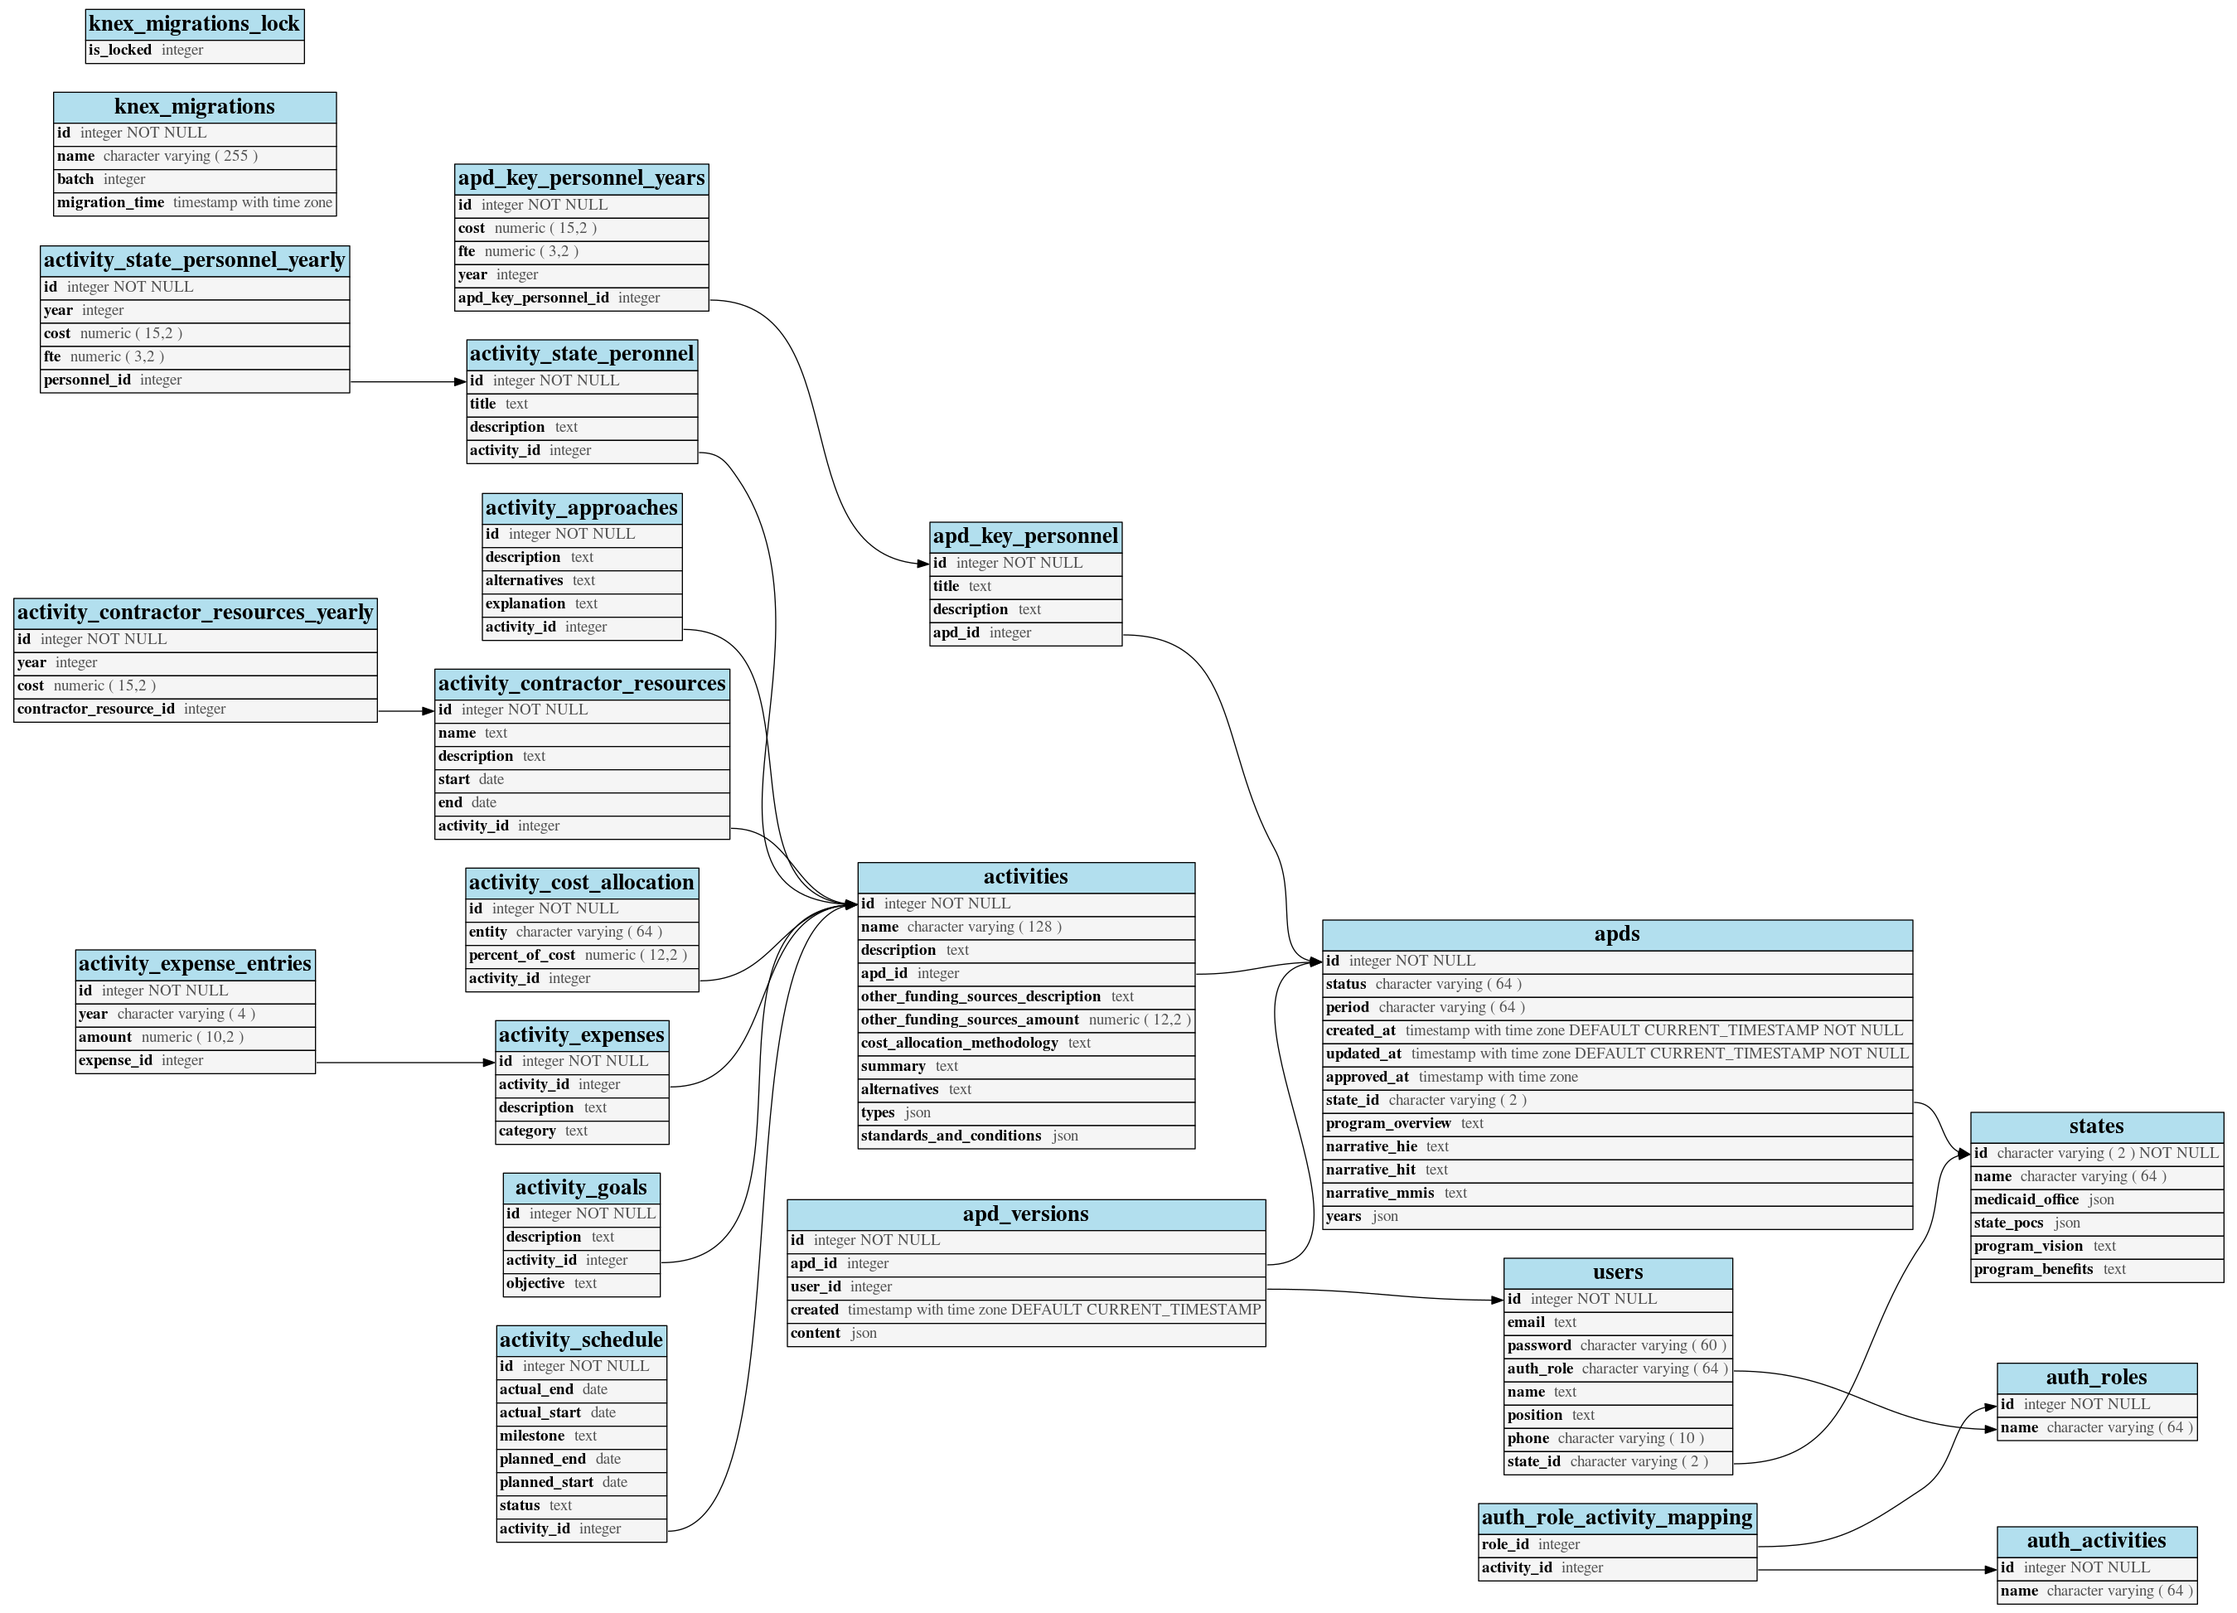
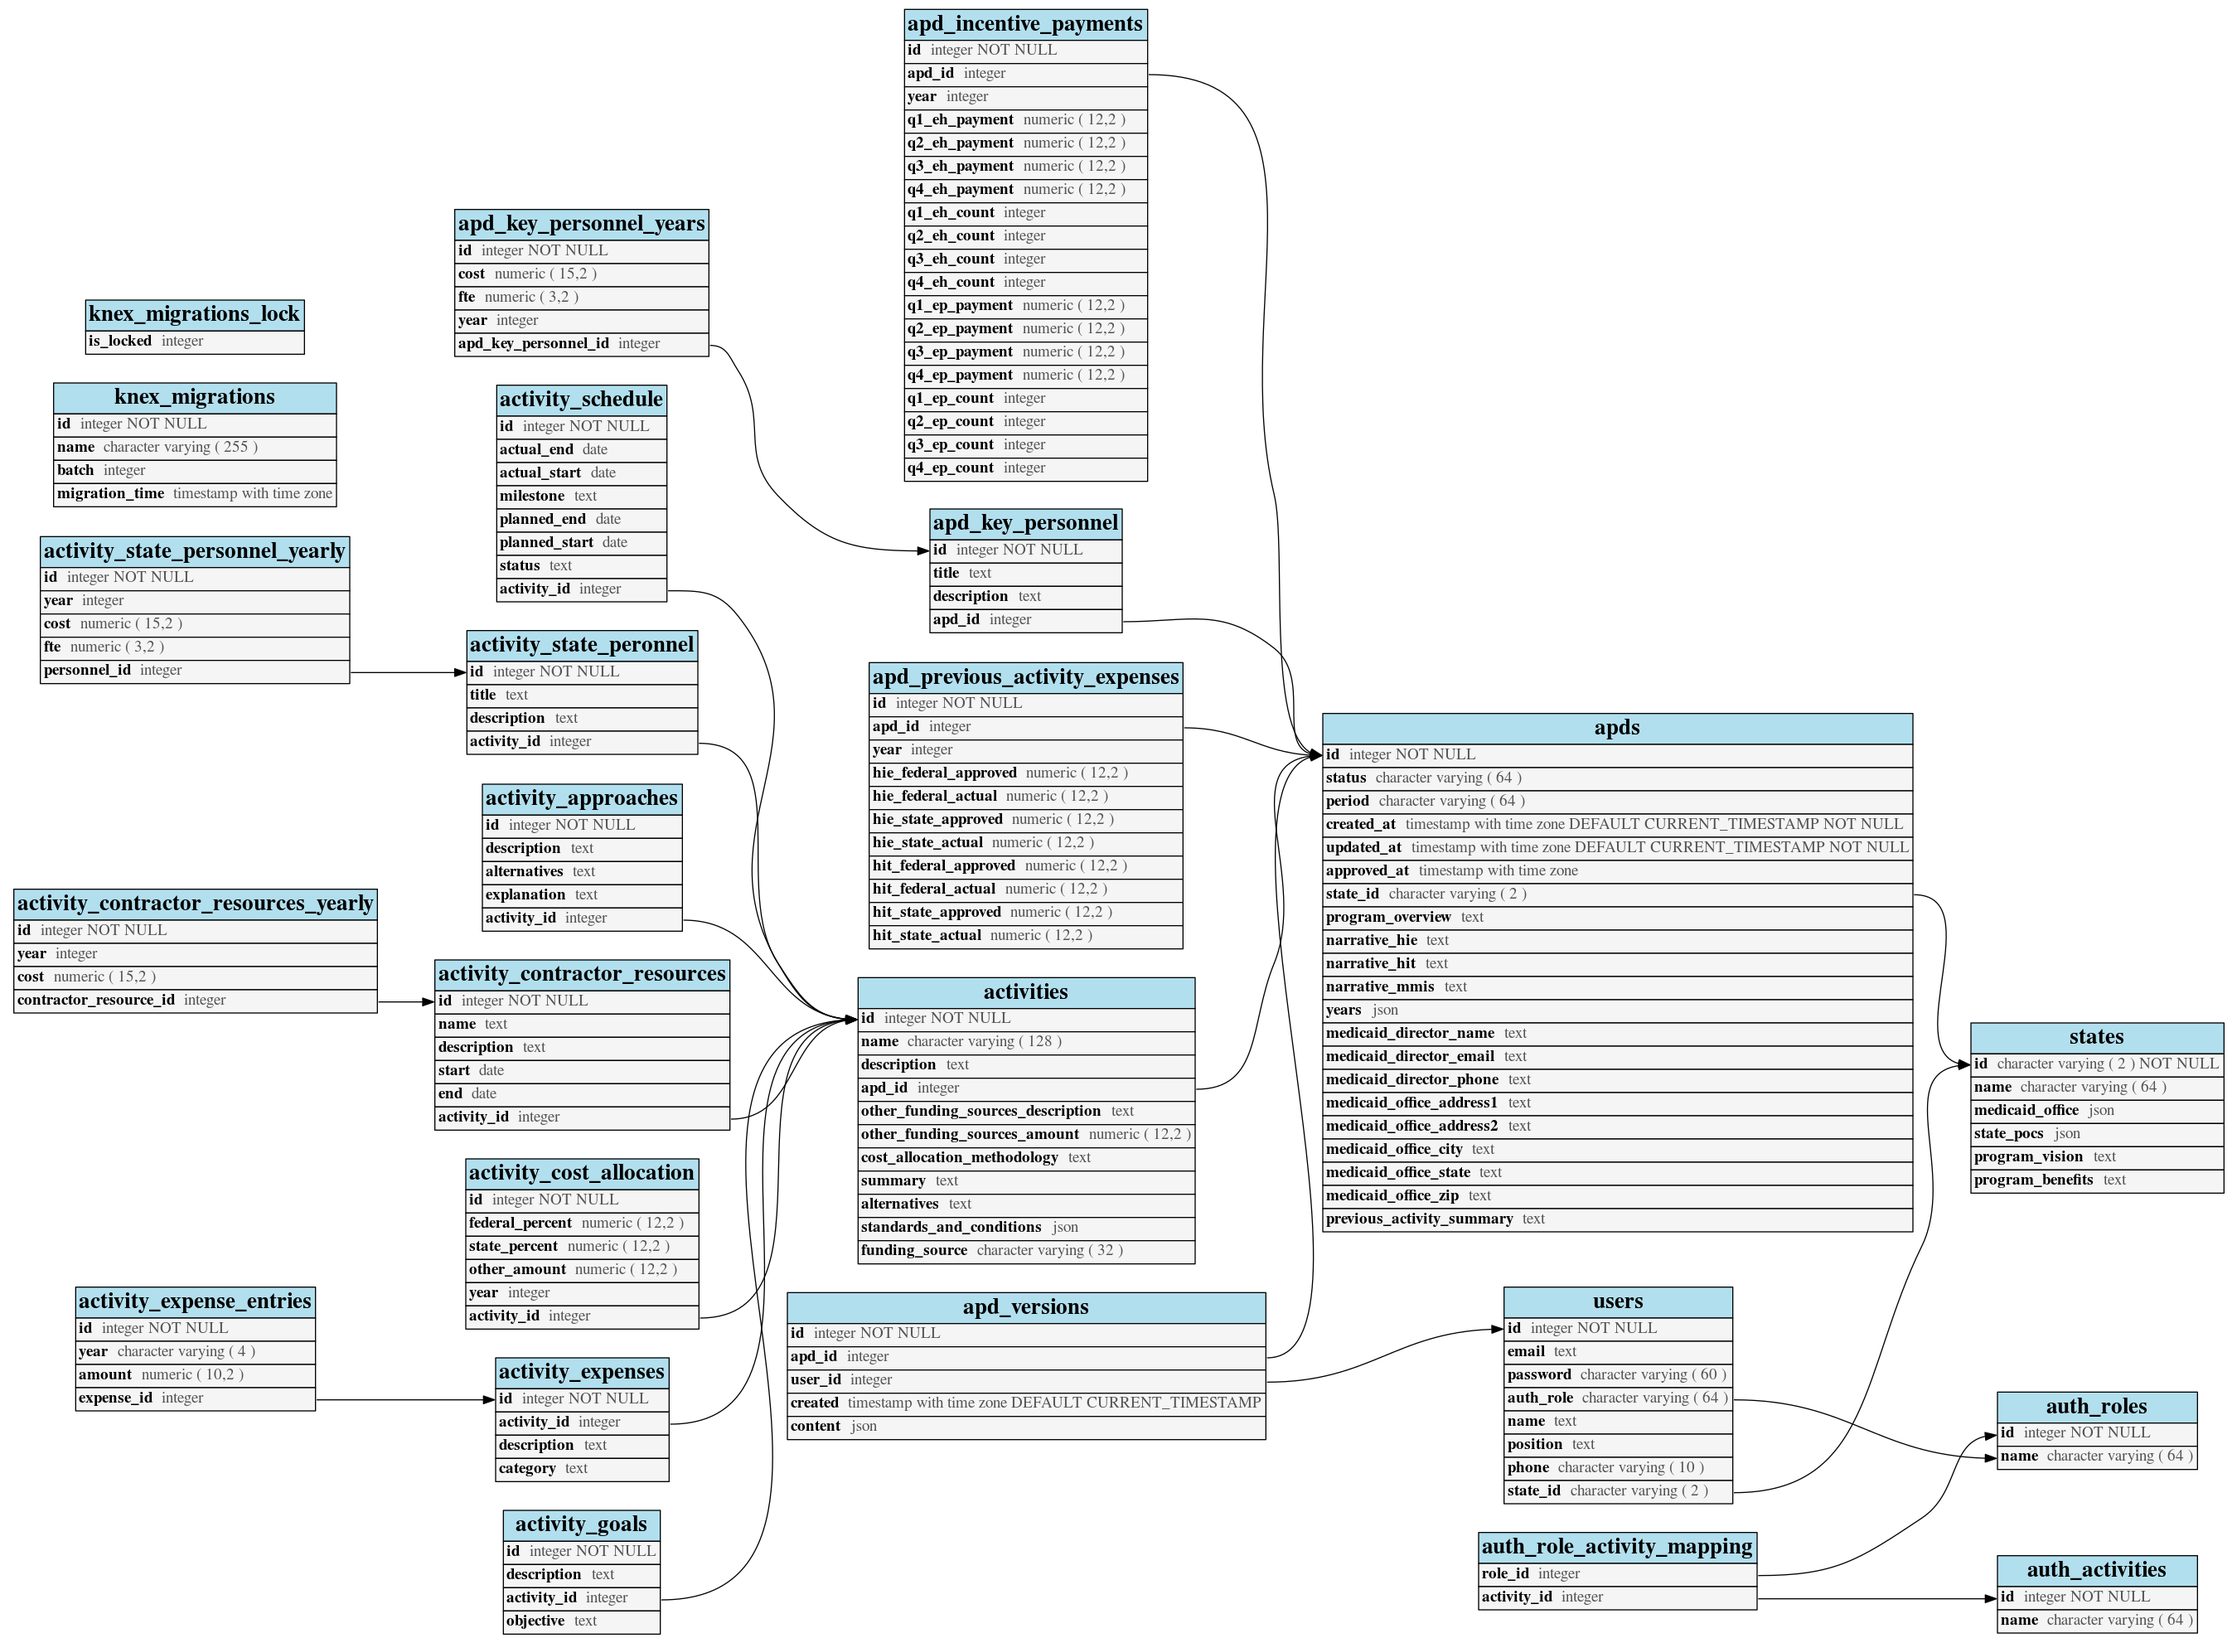
db migration; data model

diff --git a/api/db/apdIncentivePayment.test.js b/api/db/apdIncentivePayment.test.js
@@ -1,0 +1,143 @@
+const tap = require('tap');
+const sinon = require('sinon');
+
+const { apdIncentivePayment: incentive } = require('./apdIncentivePayment')();
+
+tap.test('apd incentive payments data model', async tests => {
+  tests.test('setup', async test => {
+    test.match(
+      incentive,
+      {
+        tableName: 'apd_incentive_payments',
+        apd: Function,
+        format: Function,
+        toJSON: Function,
+        static: {
+          updateableFields: ['q1', 'q2', 'q3', 'q4', 'year']
+        }
+      },
+      'get the expected model definitions'
+    );
+  });
+
+  tests.test('sets up apd relationship', async test => {
+    const self = {
+      belongsTo: sinon.stub().returns('baz')
+    };
+
+    const output = incentive.apd.bind(self)();
+
+    test.ok(
+      self.belongsTo.calledWith('apd'),
+      'sets up the relationship mapping to an apd'
+    );
+    test.equal(output, 'baz', 'returns the expected value');
+  });
+
+  tests.test('formats data into database columns', async test => {
+    const attributes = {
+      year: 1066,
+      apd_id: 'bob',
+      q1: {
+        ehPayment: 1,
+        ehCount: 2,
+        epPayment: 3,
+        epCount: 4
+      },
+      q2: {
+        ehPayment: 10,
+        ehCount: 20,
+        epPayment: 30,
+        epCount: 40
+      },
+      q3: {
+        ehPayment: 100,
+        ehCount: 200,
+        epPayment: 300,
+        epCount: 400
+      },
+      q4: {
+        ehPayment: 1000,
+        ehCount: 2000,
+        epPayment: 3000,
+        epCount: 4000
+      },
+      otherStuff: 'deleted'
+    };
+
+    const output = incentive.format(attributes);
+
+    test.same(output, {
+      year: 1066,
+      apd_id: 'bob',
+      q1_eh_payment: 1,
+      q1_eh_count: 2,
+      q1_ep_payment: 3,
+      q1_ep_count: 4,
+      q2_eh_payment: 10,
+      q2_eh_count: 20,
+      q2_ep_payment: 30,
+      q2_ep_count: 40,
+      q3_eh_payment: 100,
+      q3_eh_count: 200,
+      q3_ep_payment: 300,
+      q3_ep_count: 400,
+      q4_eh_payment: 1000,
+      q4_eh_count: 2000,
+      q4_ep_payment: 3000,
+      q4_ep_count: 4000
+    });
+  });
+
+  tests.test('overrides toJSON method', async test => {
+    const self = { get: sinon.stub(), related: sinon.stub() };
+    self.get.returns('--- unknown field ---');
+    self.get.withArgs('q1_eh_payment').returns('1');
+    self.get.withArgs('q1_eh_count').returns(2);
+    self.get.withArgs('q1_ep_payment').returns('3');
+    self.get.withArgs('q1_ep_count').returns(4);
+    self.get.withArgs('q2_eh_payment').returns('10');
+    self.get.withArgs('q2_eh_count').returns(20);
+    self.get.withArgs('q2_ep_payment').returns('30');
+    self.get.withArgs('q2_ep_count').returns(40);
+    self.get.withArgs('q3_eh_payment').returns('100');
+    self.get.withArgs('q3_eh_count').returns(200);
+    self.get.withArgs('q3_ep_payment').returns('300');
+    self.get.withArgs('q3_ep_count').returns(400);
+    self.get.withArgs('q4_eh_payment').returns('1000');
+    self.get.withArgs('q4_eh_count').returns(2000);
+    self.get.withArgs('q4_ep_payment').returns('3000');
+    self.get.withArgs('q4_ep_count').returns(4000);
+    self.get.withArgs('year').returns('year');
+
+    const output = incentive.toJSON.bind(self)();
+
+    test.same(output, {
+      q1: {
+        ehPayment: 1,
+        ehCount: 2,
+        epPayment: 3,
+        epCount: 4
+      },
+      q2: {
+        ehPayment: 10,
+        ehCount: 20,
+        epPayment: 30,
+        epCount: 40
+      },
+      q3: {
+        ehPayment: 100,
+        ehCount: 200,
+        epPayment: 300,
+        epCount: 400
+      },
+      q4: {
+        ehPayment: 1000,
+        ehCount: 2000,
+        epPayment: 3000,
+        epCount: 4000
+      },
+      year: 'year'
+    });
+  });
+});

diff --git a/api/db/apd.test.js b/api/db/apd.test.js
@@ -10,6 +10,14 @@ tap.test('apd data model', async apdModelTests => {
       {
         apd: {
           tableName: 'apds',
+
+          activities: Function,
+          incentivePayments: Function,
+          keyPersonnel: Function,
+          previousActivityExpenses: Function,
+          state: Function,
+          versions: Function,
+
           format: Function,
           toJSON: Function,
           static: {
@@ -25,7 +33,9 @@ tap.test('apd data model', async apdModelTests => {
             foreignKey: 'apd_id',
             owns: {
               activities: 'apdActivity',
-              keyPersonnel: 'apdKeyPersonnel'
+              incentivePayments: 'apdIncentivePayment',
+              keyPersonnel: 'apdKeyPersonnel',
+              previousActivityExpenses: 'apdPreviousActivityExpense'
             },
             withRelated: [
               { activities: Function },
@@ -38,6 +48,7 @@ tap.test('apd data model', async apdModelTests => {
               'activities.schedule',
               'activities.statePersonnel',
               'activities.statePersonnel.years',
+              'incentivePayments',
               'keyPersonnel',
               'keyPersonnel.years',
               'previousActivityExpenses'
@@ -46,36 +57,6 @@ tap.test('apd data model', async apdModelTests => {
         }
       },
       'get the expected model definitions'
-    );
-
-    setupTests.type(
-      apd.apd.activities,
-      'function',
-      'creates an activities relationship for the apd model'
-    );
-
-    setupTests.type(
-      apd.apd.keyPersonnel,
-      'function',
-      'creates a key personnel relationship for the apd model'
-    );
-
-    setupTests.type(
-      apd.apd.previousActivityExpenses,
-      'function',
-      'creates a previous activity expenses relationship for the apd model'
-    );
-
-    setupTests.type(
-      apd.apd.state,
-      'function',
-      'creates a state relationship for the apd model'
-    );
-
-    setupTests.type(
-      apd.apd.versions,
-      'function',
-      'creates a versions relationship for the apd model'
     );
   });
 
@@ -106,6 +87,23 @@ tap.test('apd data model', async apdModelTests => {
         'sets up the relationship mapping to activities'
       );
       activitiesTests.equal(output, 'florp', 'returns the expected value');
+    }
+  );
+
+  apdModelTests.test(
+    'apd model sets up incentive payments relationship',
+    async test => {
+      const self = {
+        hasMany: sinon.stub().returns('snop')
+      };
+
+      const output = apd.apd.incentivePayments.bind(self)();
+
+      test.ok(
+        self.hasMany.calledWith('apdIncentivePayment'),
+        'sets up the relationship mapping to incentive payments'
+      );
+      test.equal(output, 'snop', 'returns the expected value');
     }
   );
 
@@ -235,6 +233,9 @@ tap.test('apd data model', async apdModelTests => {
       .withArgs('activities')
       .returns({ toJSON: sinon.stub().returns('apd-activities') });
     self.related
+      .withArgs('incentivePayments')
+      .returns({ toJSON: sinon.stub().returns('incentive-payments') });
+    self.related
       .withArgs('keyPersonnel')
       .returns({ toJSON: sinon.stub().returns('key-personnel') });
     self.get.withArgs('id').returns('apd-id');
@@ -272,6 +273,7 @@ tap.test('apd data model', async apdModelTests => {
       {
         id: 'apd-id',
         activities: 'apd-activities',
+        incentivePayments: 'incentive-payments',
         keyPersonnel: 'key-personnel',
         narrativeHIE: 'apd-hie',
         narrativeHIT: 'apd-hit',

diff --git a/api/db/apdIncentivePayment.js b/api/db/apdIncentivePayment.js
@@ -1,0 +1,64 @@
+module.exports = () => ({
+  apdIncentivePayment: {
+    tableName: 'apd_incentive_payments',
+
+    apd() {
+      return this.belongsTo('apd');
+    },
+
+    format(attributes) {
+      const out = { year: attributes.year, apd_id: attributes.apd_id };
+
+      ['q1', 'q2', 'q3', 'q4'].forEach(q => {
+        if (attributes[q]) {
+          [
+            ['ehPayment', 'eh_payment'],
+            ['ehCount', 'eh_count'],
+            ['epPayment', 'ep_payment'],
+            ['epCount', 'ep_count']
+          ].forEach(([camel, snake]) => {
+            if (attributes[q][camel]) {
+              out[`${q}_${snake}`] = attributes[q][camel];
+            }
+          });
+        }
+      });
+
+      return out;
+    },
+
+    toJSON() {
+      return {
+        q1: {
+          ehPayment: +this.get('q1_eh_payment'),
+          ehCount: this.get('q1_eh_count'),
+          epPayment: +this.get('q1_ep_payment'),
+          epCount: this.get('q1_ep_count')
+        },
+        q2: {
+          ehPayment: +this.get('q2_eh_payment'),
+          ehCount: this.get('q2_eh_count'),
+          epPayment: +this.get('q2_ep_payment'),
+          epCount: this.get('q2_ep_count')
+        },
+        q3: {
+          ehPayment: +this.get('q3_eh_payment'),
+          ehCount: this.get('q3_eh_count'),
+          epPayment: +this.get('q3_ep_payment'),
+          epCount: this.get('q3_ep_count')
+        },
+        q4: {
+          ehPayment: +this.get('q4_eh_payment'),
+          ehCount: this.get('q4_eh_count'),
+          epPayment: +this.get('q4_ep_payment'),
+          epCount: this.get('q4_ep_count')
+        },
+        year: `${this.get('year')}`
+      };
+    },
+
+    static: {
+      updateableFields: ['q1', 'q2', 'q3', 'q4', 'year']
+    }
+  }
+});

diff --git a/api/db/apd.js b/api/db/apd.js
@@ -6,6 +6,10 @@ module.exports = () => ({
       return this.hasMany('apdActivity');
     },
 
+    incentivePayments() {
+      return this.hasMany('apdIncentivePayment');
+    },
+
     keyPersonnel() {
       return this.hasMany('apdKeyPersonnel');
     },
@@ -72,6 +76,7 @@ module.exports = () => ({
       return {
         id: this.get('id'),
         activities: this.related('activities').toJSON(),
+        incentivePayments: this.related('incentivePayments').toJSON(),
         keyPersonnel: this.related('keyPersonnel').toJSON(),
         narrativeHIE: this.get('narrative_hie'),
         narrativeHIT: this.get('narrative_hit'),
@@ -115,6 +120,7 @@ module.exports = () => ({
       foreignKey: 'apd_id',
       owns: {
         activities: 'apdActivity',
+        incentivePayments: 'apdIncentivePayment',
         keyPersonnel: 'apdKeyPersonnel',
         previousActivityExpenses: 'apdPreviousActivityExpense'
       },
@@ -129,6 +135,7 @@ module.exports = () => ({
         'activities.schedule',
         'activities.statePersonnel',
         'activities.statePersonnel.years',
+        'incentivePayments',
         'keyPersonnel',
         'keyPersonnel.years',
         'previousActivityExpenses'

diff --git a/api/migrations/20180703000101_incentive-payments.js b/api/migrations/20180703000101_incentive-payments.js
@@ -1,0 +1,25 @@
+exports.up = async knex =>
+  knex.schema.createTable('apd_incentive_payments', table => {
+    table.increments();
+    table.integer('apd_id');
+    table.integer('year');
+    table.decimal('q1_eh_payment', 12, 2);
+    table.decimal('q2_eh_payment', 12, 2);
+    table.decimal('q3_eh_payment', 12, 2);
+    table.decimal('q4_eh_payment', 12, 2);
+    table.integer('q1_eh_count');
+    table.integer('q2_eh_count');
+    table.integer('q3_eh_count');
+    table.integer('q4_eh_count');
+    table.decimal('q1_ep_payment', 12, 2);
+    table.decimal('q2_ep_payment', 12, 2);
+    table.decimal('q3_ep_payment', 12, 2);
+    table.decimal('q4_ep_payment', 12, 2);
+    table.integer('q1_ep_count');
+    table.integer('q2_ep_count');
+    table.integer('q3_ep_count');
+    table.integer('q4_ep_count');
+
+    table.foreign('apd_id').references('apds.id');
+  });
+exports.down = async () => {};

diff --git a/api/db/index.js b/api/db/index.js
@@ -8,6 +8,7 @@ const user = require('./user');
 const authorization = require('./authorization');
 const state = require('./state');
 const apd = require('./apd');
+const apdIncentivePayment = require('./apdIncentivePayment');
 const apdVersion = require('./apdVersion');
 const keyPersonnel = require('./apdKeyPersonnel');
 const previousActivityExpense = require('./apdPreviousActivityExpense');
@@ -25,6 +26,7 @@ const setup = (
     authorization(),
     state(),
     apd(),
+    apdIncentivePayment(),
     apdVersion(),
     keyPersonnel(),
     previousActivityExpense(),
